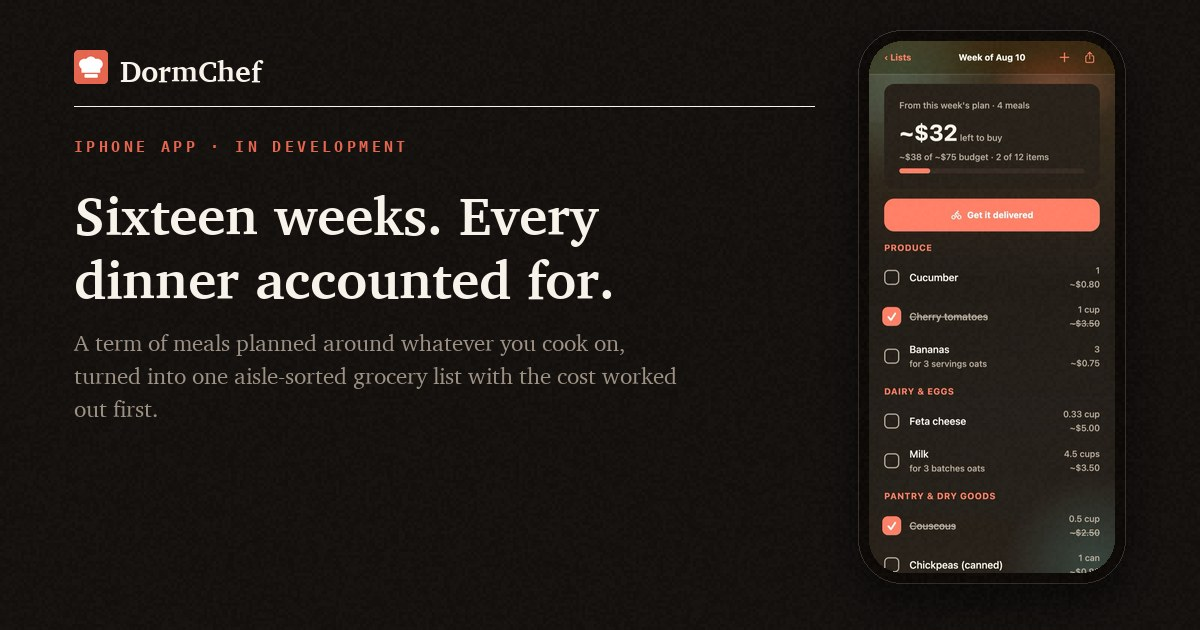
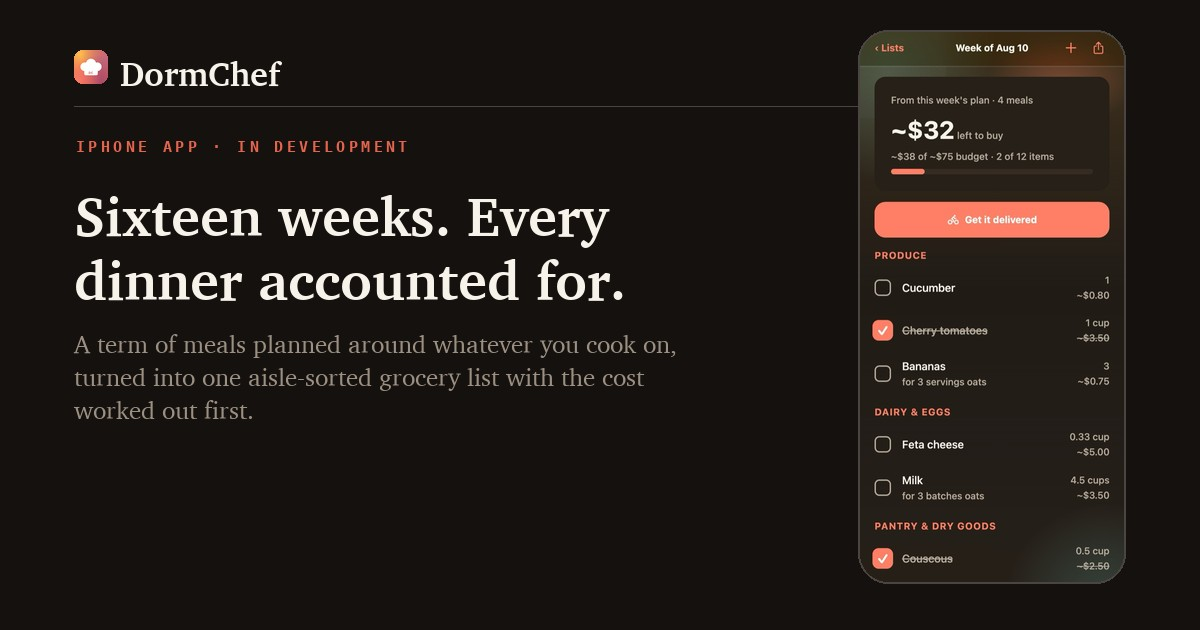
Rebuild the link-preview card on the current mark
The card was the last surface still showing the retired flat toque, and it
is the one most people see first -- it is what renders when the link is
shared anywhere.

Regenerated from the rewritten scripts/make-og-card.py. The layout is
unchanged: measured off the deployed card and reproduced to within a pixel
(tile 74,50 34x34; rule y=106 to x=869; phone 858-1125 x 30-583; the six
text bands land within 1px of the original). The mark is the only thing
that actually changed.

og:image now carries ?v=2. Scrapers key their cache on the image URL, so
replacing og.jpg in place would have left Facebook, LinkedIn, Slack and
iMessage serving the old card indefinitely -- which is the failure mode
that made this look unfixed in the first place.

Also corrected og:image:alt, which described "the DormChef Explore feed
showing student recipes with calories and cost per serving". The card has
shown the grocery list since the Sixteen-weeks rebuild, so the alt text was
describing an image that no longer existed.

diff --git a/index.html b/index.html
@@ -14,16 +14,20 @@
 <meta name="description" content="Meal planner for college students. Plan the week, get one aisle-sorted grocery list, and see the estimated total before you spend a dollar. In development." />
 <link rel="canonical" href="https://dormchefllc.com/" />
 
-<!-- Link previews. og:image must be an absolute URL: scrapers don't resolve
+<!-- Link previews. The ?v= on og:image is not decoration: scrapers cache the
+     card by URL, so replacing og.jpg in place leaves Facebook, LinkedIn,
+     Slack and iMessage serving the old one indefinitely. Bump it whenever
+     scripts/make-og-card.py changes the card.
+     og:image must be an absolute URL: scrapers don't resolve
      relative paths. Rebuild with scripts/make-og-card.py. -->
 <meta property="og:title" content="Sixteen weeks. Every dinner accounted for." />
 <meta property="og:description" content="A term of meals planned around whatever you cook on, turned into one aisle-sorted grocery list with the cost worked out first. In development." />
 <meta property="og:type" content="website" />
 <meta property="og:url" content="https://dormchefllc.com/" />
-<meta property="og:image" content="https://dormchefllc.com/og.jpg" />
+<meta property="og:image" content="https://dormchefllc.com/og.jpg?v=2" />
 <meta property="og:image:width" content="1200" />
 <meta property="og:image:height" content="630" />
-<meta property="og:image:alt" content="Sixteen weeks, every dinner accounted for, beside the DormChef Explore feed showing student recipes with calories and cost per serving." />
+<meta property="og:image:alt" content="Sixteen weeks, every dinner accounted for, beside the DormChef grocery list for a week of meals, aisle-sorted and showing about $32 left to buy against a $75 budget." />
 <meta property="og:site_name" content="DormChef" />
 <meta name="twitter:card" content="summary_large_image" />
 <meta name="theme-color" content="#120f0d" />
